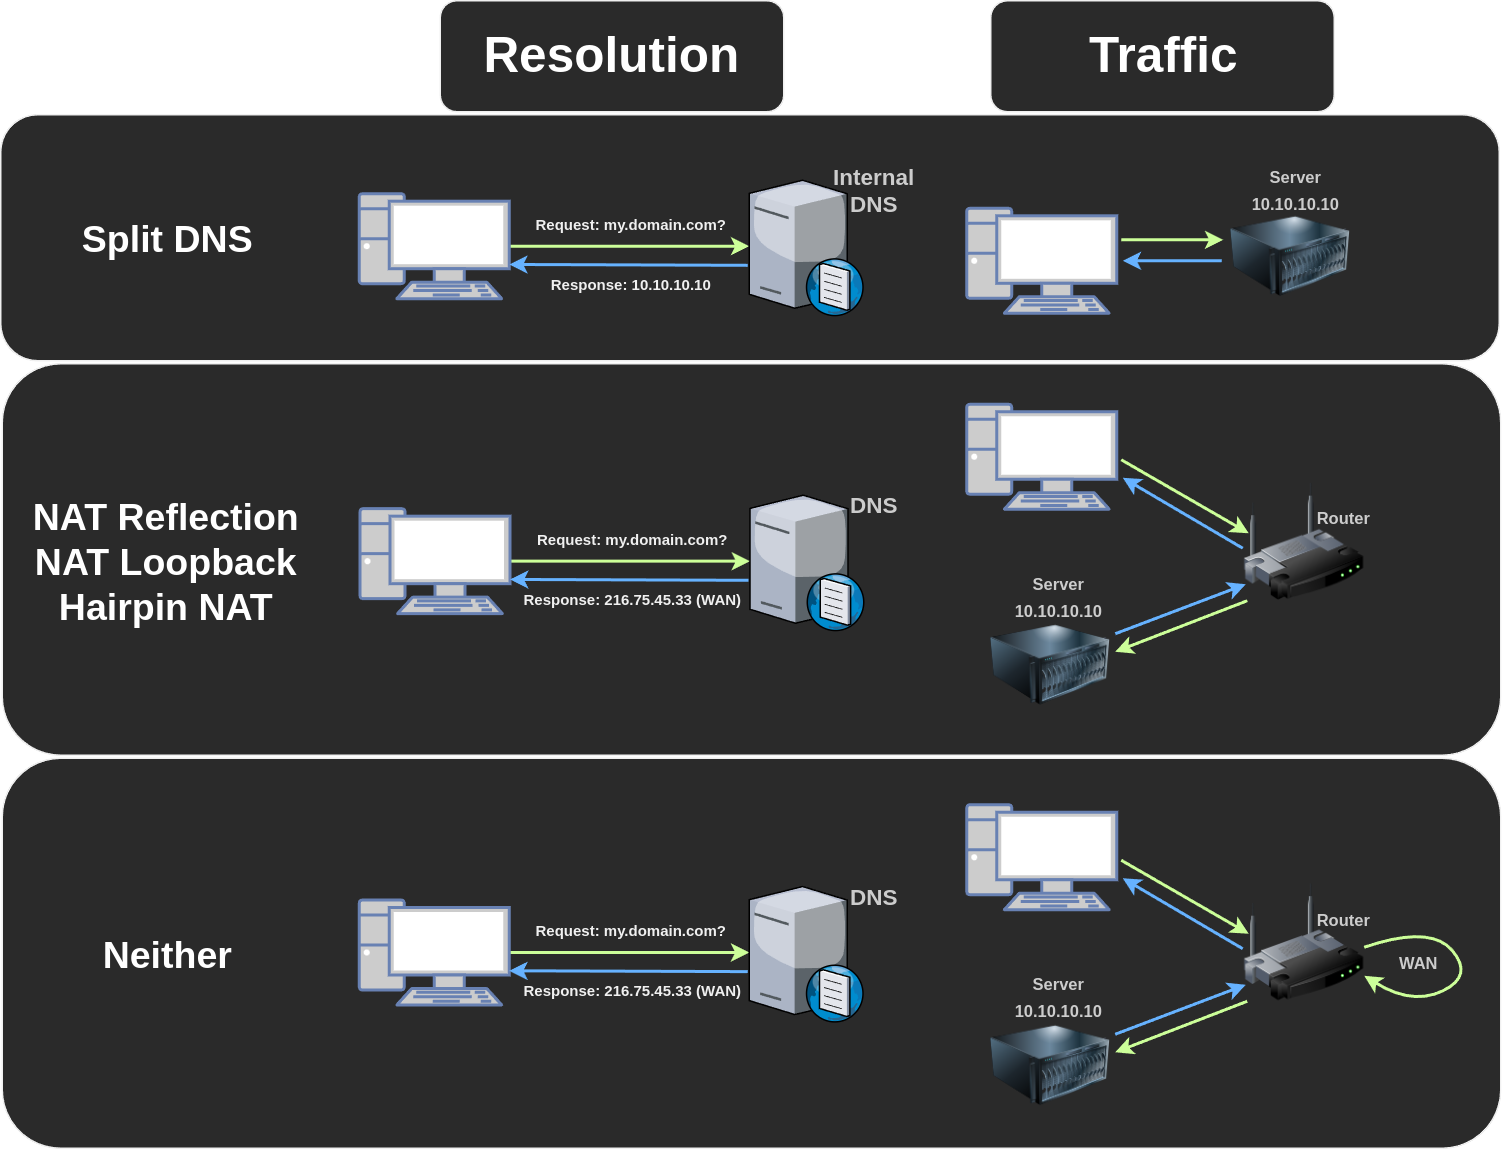
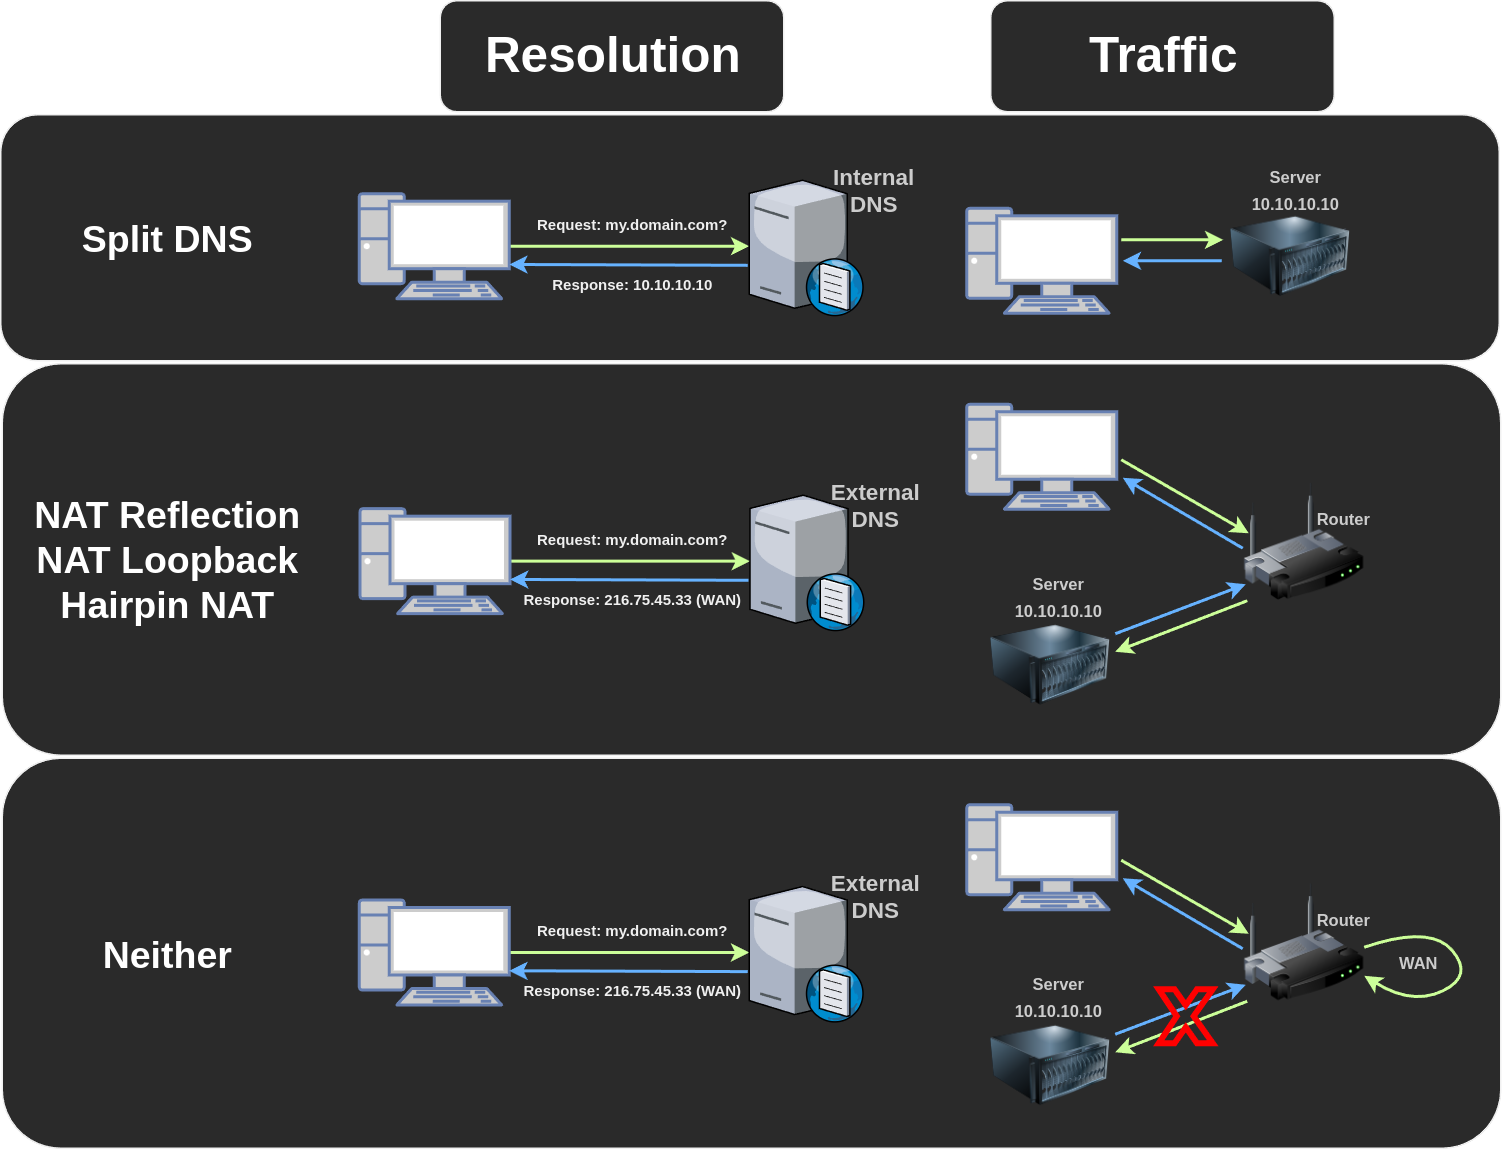
CR fixes

diff --git a/docs/general/split-dns.md b/docs/general/split-dns.md
@@ -2,17 +2,17 @@
 
 # Split DNS
 
-Split DNS allows you to rewrite DNS requests from `*.domain.com` directly to your server instead of having to go through the router, it has several benefits:
+Spilt DNS allows you to give different answers to DNS requests for internal and external users, so local requests for your server don't have to go via your router, if has several benefits:
 
 - Faster due to not having to go through the router.
 - The reverse proxy can easily differentiate between internal and external requests with allow/deny since there's no NAT.
-- Things still works when the internet is down.
-- Things still works when the upstream DNS isn't available.
+- Things still work when the internet is down.
+- Things still work when upstream DNS (Your ISP/Google/OpenDNS/etc) isn't available.
 
 ## Requirements
 
-- An internal reverse proxy that **listens on port 443**.
-- An internal DNS that supports rewrites.
+- An internal reverse proxy that **listens on port 80/443**.
+- An internal DNS resolver that supports rewrites or hosting full DNS zones.
 
 ## Popular DNS Configurations
 
@@ -58,8 +58,12 @@ For example, you can exclude `wg.domain.com` on AdguardHome by creating another 
 
 ## NAT Reflection / NAT Loopback / Hairpin NAT
 
-NAT reflection is a setting on specific routers that can be enabled via a checkbox, it allows LAN devices to use the external IP and get port-forwarded without being NAT'd.
+NAT reflection is an alternative option to split DNS, which can provide some but not all of the same same benefits, it allows LAN devices to use the external IP and get port-forwarded without being NAT'd. 
+
+It's usually a setting on specific routers that can be enabled via a checkbox.
+
+Note that using cloudflare proxy (the orange cloud) breaks it.
 
 ## Neither
 
-Without split DNS or NAT reflection traffic goes out of the external IP and gets NAT'd, often getting blocked by the router since external traffic with a LAN IP source is seen as malicious.
+Without split DNS or NAT reflection traffic goes out of your router to reach your external IP and then gets NAT'd back in, often getting blocked by the router since external traffic with a LAN IP source is seen as malicious.
